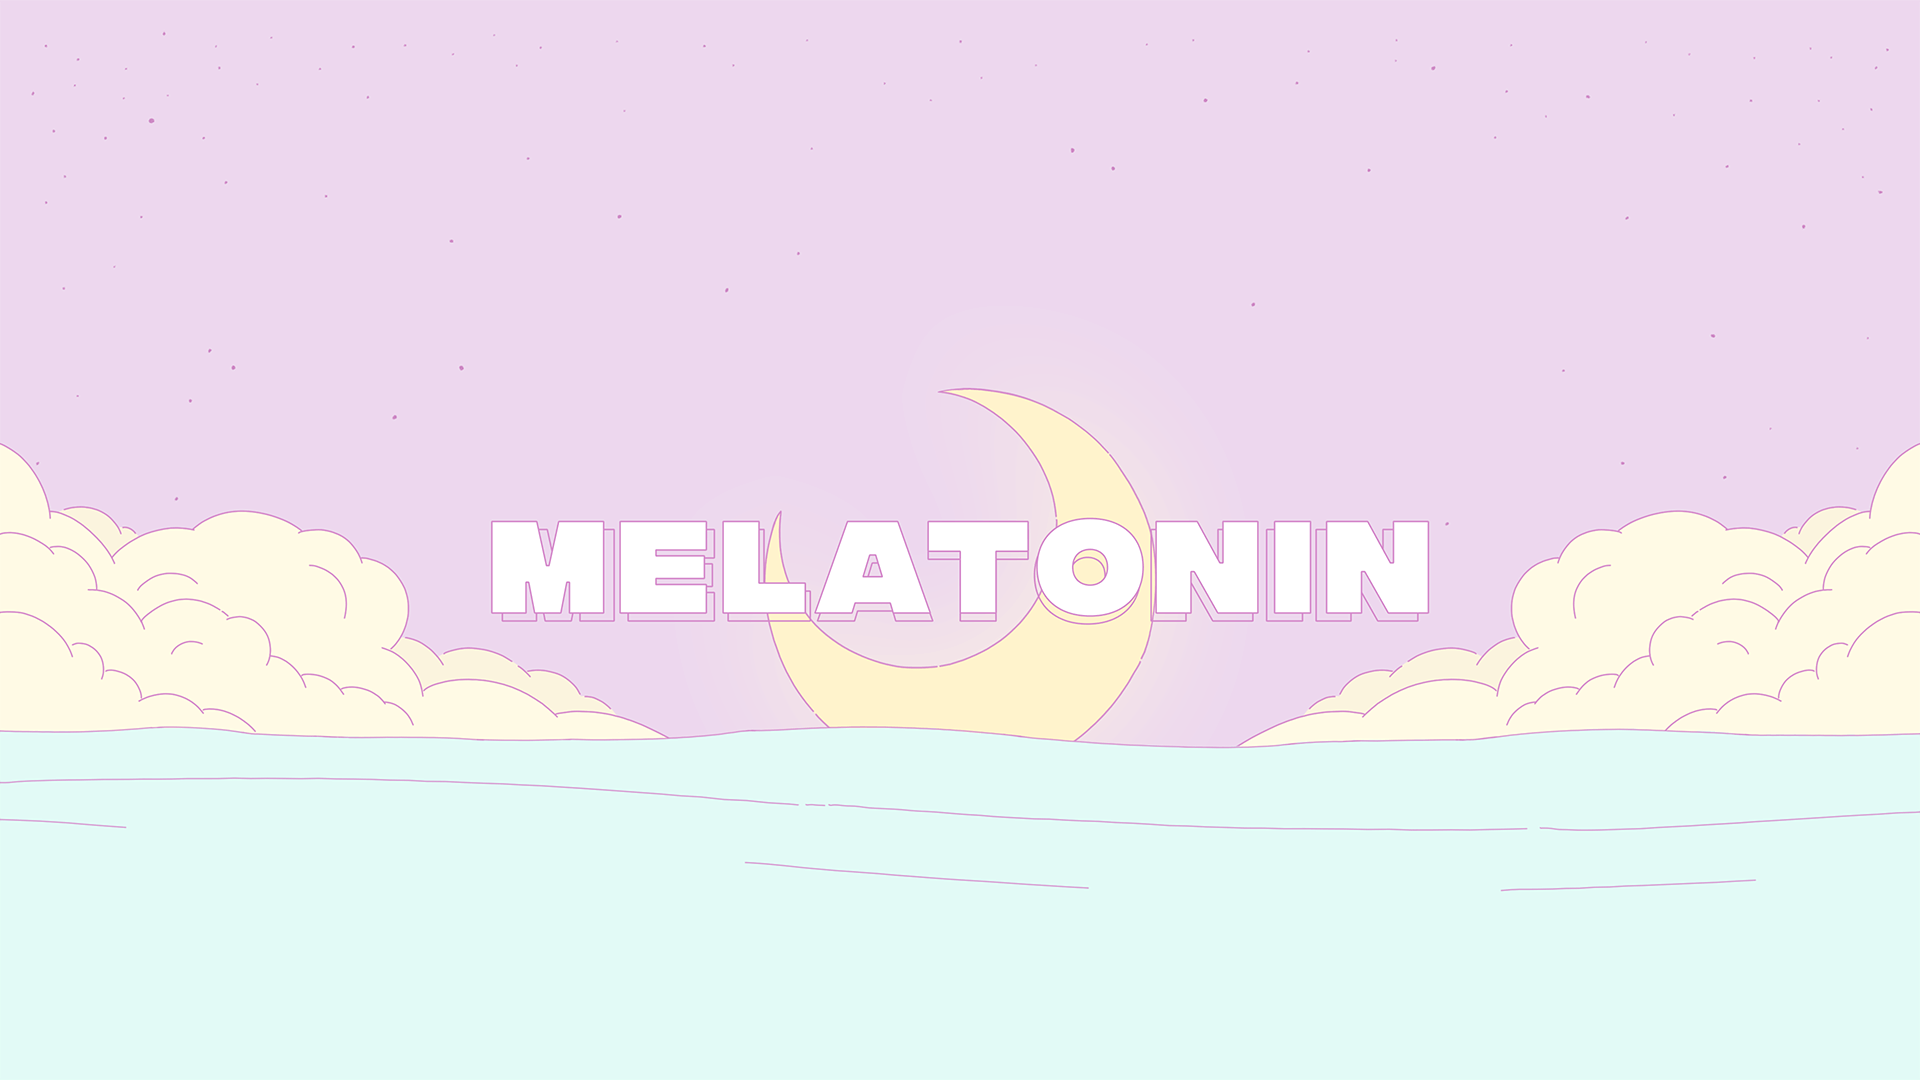
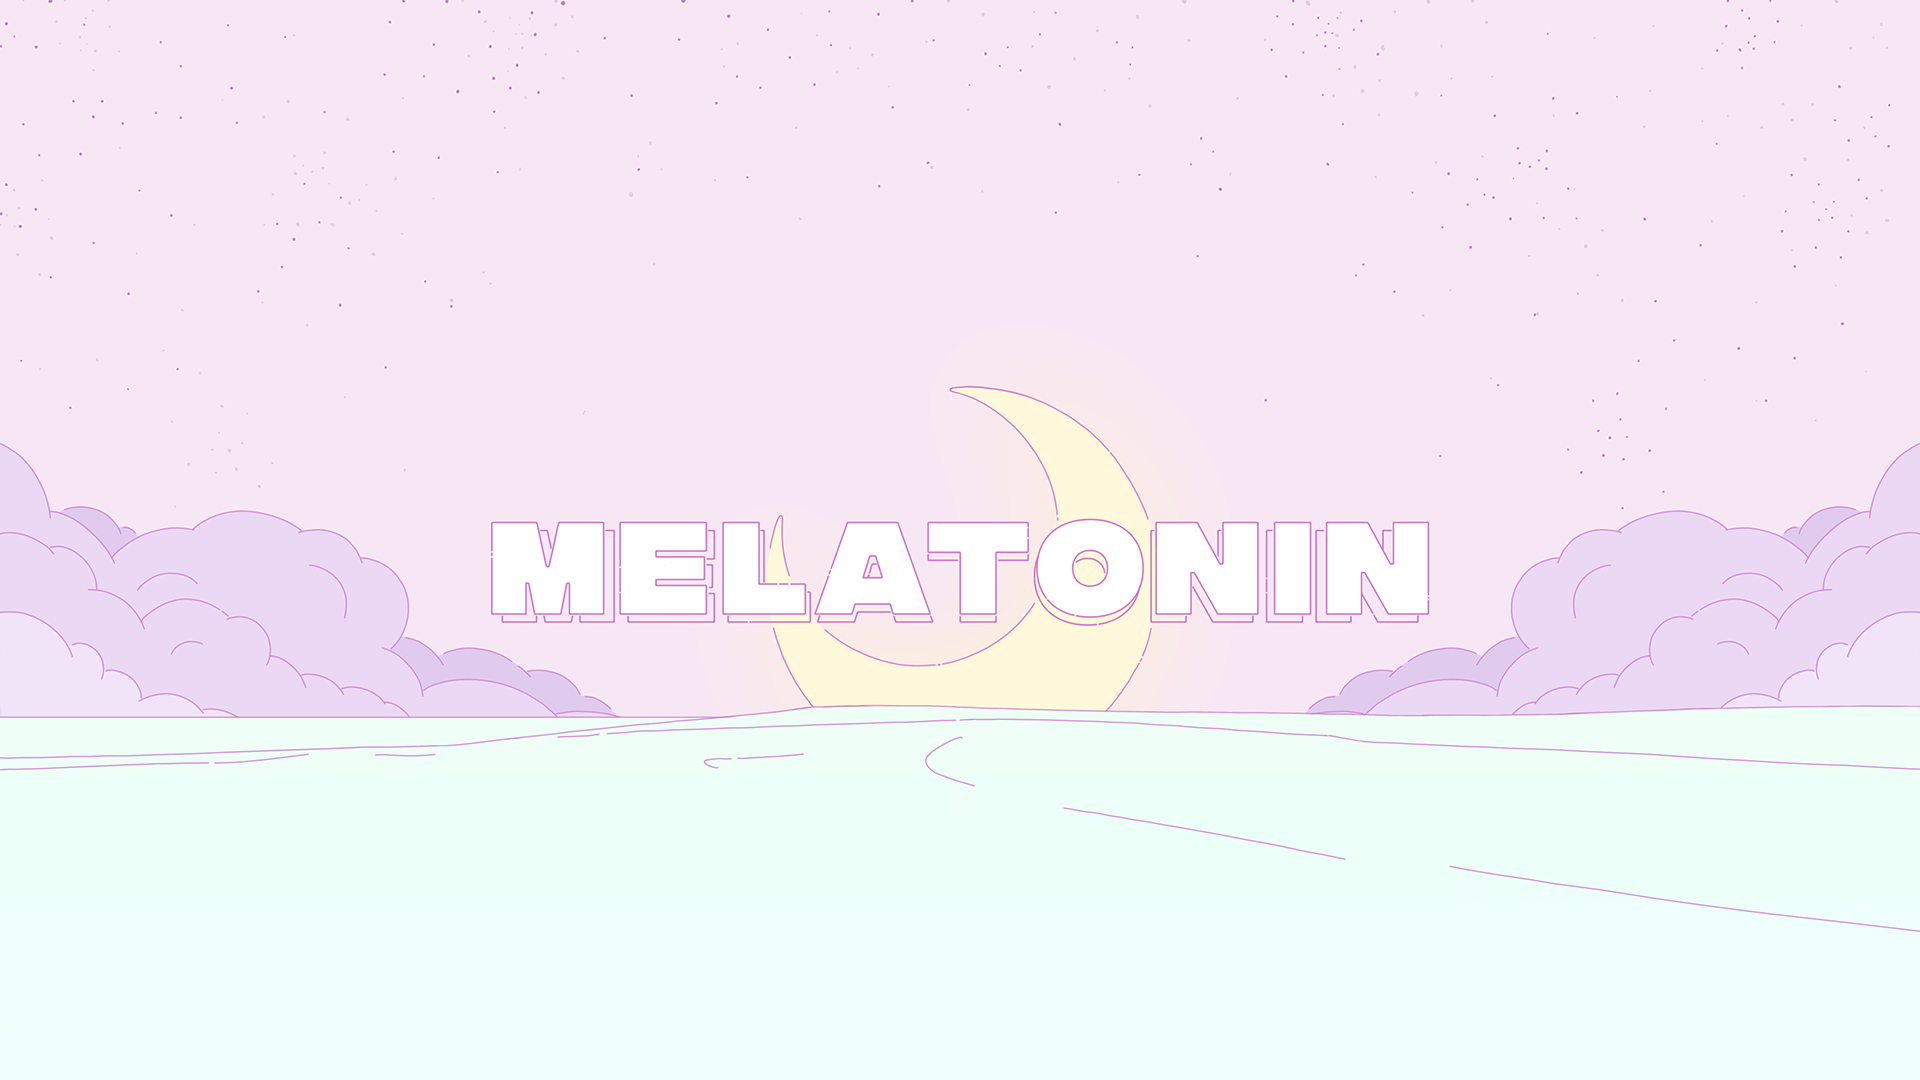
u

diff --git a/melatonin/index.html b/melatonin/index.html
@@ -67,11 +67,9 @@
       </div>
     </header>
     <div class="Bleed">
-      <div class="video js-slide">
-        <video class="video-player" autoplay muted loop>
-          <source src="../img/loop.mp4" type="video/mp4">
-        </video>
-        <img src="../img/melatonin.png" class="Asset" alt="Melatonin key art"/>
+      <div class="animation js-slide">
+        <img class="animation-gif" src="../img/melatoninLoop.gif" alt="Melatonin key art"/>
+        <img class="animation-backup" src="../img/melatonin.png" alt="Melatonin key art"/>
       </div>
     </div>
     <div class="Bleed">

diff --git a/index.html b/index.html
@@ -58,11 +58,9 @@
   </header>
   <div class="Bleed">
     <a href="./melatonin">
-      <div class="video js-slide">
-        <video class="video-player" autoplay muted loop>
-          <source src="img/loop.mp4" type="video/mp4">
-        </video>
-        <img src="img/melatonin.png" alt="Melatonin key art"/>
+      <div class="animation js-slide">
+        <img class="animation-gif" src="img/melatoninLoop.gif" alt="Melatonin key art"/>
+        <img class="animation-backup" src="img/melatonin.png" alt="Melatonin key art"/>
       </div>
     </a>
   </div>

diff --git a/css/main.css b/css/main.css
@@ -297,15 +297,20 @@ a.button:hover {
 
 /* --- Video */
 
-.video {
+.animation {
   position: relative;
 }
 
-.video-player {
+.animation-gif {
   position: absolute;
   width: 100%;
+  z-index: 2;
 }
 
+.animation-backup {
+  position: relative;
+  z-index: 1;
+}
 
 /* --- Description */
 
